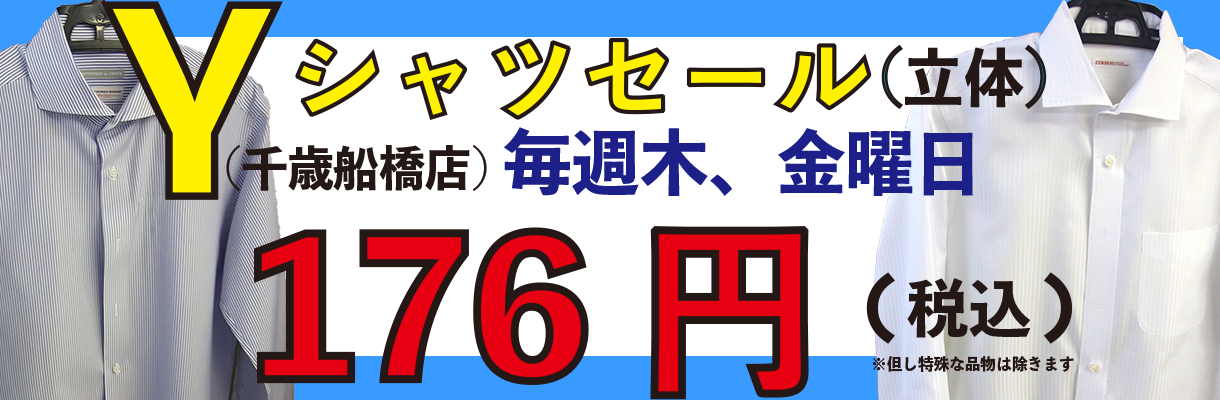
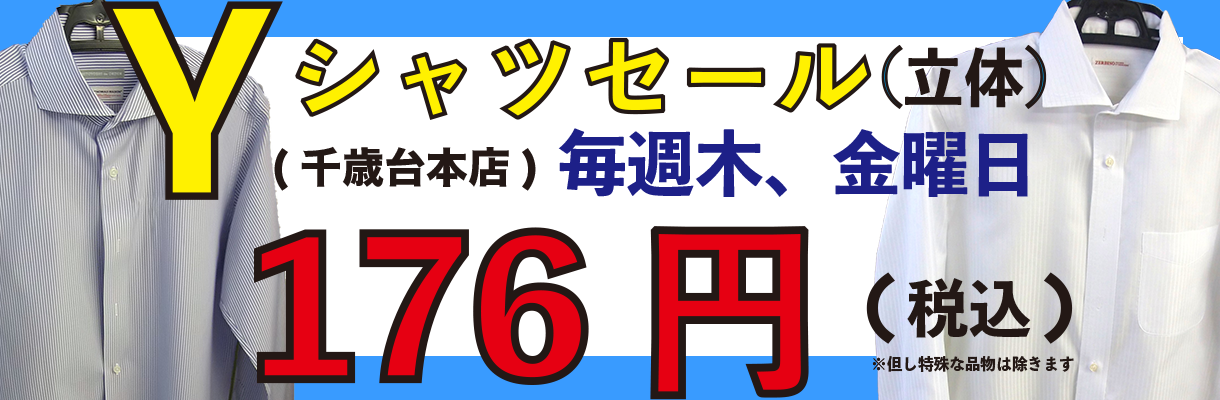
titose dev

Changed region(s): [[0.1869, 0.3, 0.841, 0.51]]

diff --git a/public/css/titosedai.css b/public/css/titosedai.css
@@ -1,4 +1,205 @@
 @charset"UTF-8";
-h1{
-	color:blue;
+*{ box-sizing: border-box;
+   margin: 0px;
+   padding: 0px;
+}
+body{
+	background-color:#ededed; /*#fcfcfc;/* #f7f5f5; bodyの背景、全てのページの背景色にする*/
+}
+h1.titles{
+	font-size:40px;
+	text-align:center;
+	background-color:#FFFF00;
+}
+/*メニューバー*/
+ul.menu{
+	background:#33FFFF; /*#00FFFF;←水色*/
+	padding: 0;
+	text-align:center;
+	box-shadow: 0px 8px 5px -5px rgba(0,0,0,0.5);/*影をつけた、千歳台の奴も影をつける*/
+}
+ul.menu li{
+	display:inline-block;
+	
+}
+
+ul.menu li a{
+	display: block;
+	padding: 20px 80px 10px;
+	color: #000080;
+	font-size: 14px;
+	text-decoration: none;
+}
+ul.menu li a:hover{
+	padding-bottom: 4px;
+	border-bottom: 6px solid #FFFF00;
+}
+ul.menu li a img{
+	display:block;
+	margin: 0 auto 1em;
+}
+/*スライダー*/
+/*仮追加*/
+.slider{
+    margin: 30px auto;/*配置位置*/
+    width:90%;
+    /*width:80%;/*ここで大きさを調整する*/
+}
+.slider img{
+  /* height: 500px;*/
+   height: auto;
+    width 500px;
+   /*width: 100%;*/
+}
+/*slick setting*/
+.slick-prev:before,
+.slick-next:before {
+    color: #000;
+}
+.tokuhos{
+	text-align:center;
+}
+h1.tokuho{
+	text-align:center;
+	display :inline-block;
+	padding: 1em;
+        margin: 2em auto;
+        color: #FFFF00;
+        background: #2a9eeb;
+        border-bottom: solid 5px #FFFF00;;
+        border-radius: 10px;
+       box-shadow: 0 3px 6px rgba(0, 0, 0, 0.25);
+}
+/*店舗情報*/
+#content2{
+	background:#fff;
+	width:90%;
+	padding-top:30px;
+	padding-bottom:40px;
+	margin: 40px auto 0;
+	text-align: center;
+}
+#content2 h1{
+}
+
+#content2 h2{
+display: inline-block;/*文字に合わせた横線の幅にする*/
+background: linear-gradient(transparent 70%, #FFFF00 0%);
+}
+#content2 h2.subtitle{
+	font-size:30px;
+	background:none;
+}
+#content2 h3{
+display: inline-block;/*文字に合わせた横線の幅にする*/
+background: linear-gradient(transparent 70%, #FFFF00 0%);
+}
+#content2 p{
+	margin:20px;
+	font-weight:bold;
+}
+.store{
+	display:flex;
+	margin-top:100px;
+	justify-content: space-around;
+}
+.storecontent img{
+	width:300px;
+	height:250px;
+}
+span.pic{
+	background: linear-gradient(transparent 70%, #FFFF66 0%);
+}
+span.pic1{
+        background: linear-gradient(transparent 70%, #FFFF66 0%);
+}
+/*サービス情報*/
+#content3{
+	background:#fff;
+        width:95%;
+        padding-top:30px;
+        padding-bottom:40px;
+        margin: 40px auto 0;
+        text-align: center;
+}
+h1.servicetitle{
+	 display: inline-block;
+	 background: linear-gradient(transparent 70%, #FFFF66 0%);
+}
+h2.title {
+	 margin:30px;
+	 display: inline-block;
+	 background: linear-gradient(transparent 70%, #FFFF66 0%);
+}
+
+.service{
+	display:flex;
+	justify-content:space-around;
+	margin-top:50px;
+}
+.servicecontent{
+	 
+}
+
+.service1{
+        display:flex;
+        justify-content:space-around;
+	margin-top:50px;
+}
+.servicecontent p{
+	font-weight:bold;
+}
+#content4{
+	 background:#CCFFFF;
+        width:100%;
+        padding-top:30px;
+        padding-bottom:40px;
+        margin: 40px auto 0;
+        text-align: center;
+}
+.map{
+	background:#CCFFFF;
+        width:90%;
+        padding-top:30px;
+        padding-bottom:40px;
+        margin: 40px auto 0;
+        text-align: center;
+}
+.mapall{ 
+	display:flex;
+        justify-content:space-around;
+        margin-top:50px;	
+}
+.mapcontent h2{
+	margin-top:22px;
+}
+.mapcontent ul{
+	list-style: none;
+}
+
+.mapcontent span.dayoff{
+	color:red;
+}
+.mapcontent ul li.first{
+	font-size:30px;
+}
+.mapcontent ul li{
+	margin-top:30px;
+	font-weight:bold;
+	font-size:22px;
+}
+.mapcontent ul li.last{
+	font-weight:normal;
+	font-size:15px;
+}
+footer{
+	width: 100%;
+        background:#000080;
+	text-align:center;
+}
+footer dd{
+	color:#fff;
+}
+footer dd.point{
+        color:#000080;
 }

diff --git a/public/js/scroll.js b/public/js/scroll.js
@@ -1,0 +1,11 @@
+$(function(){
+  $('a[href^="#"]').click(function(){
+    var speed = 500;
+    var href= $(this).attr("href");
+    var target = $(href == "#" || href == "" ? 'html' : href);
+    var position = target.offset().top;
+    $("html, body").animate({scrollTop:position}, speed, "swing");
+    return false;
+  });
+});
+

diff --git a/public/css/turumaki.css b/public/css/turumaki.css
@@ -188,4 +188,18 @@ h2.title {
 	font-weight:bold;
 	font-size:22px;
 }
-
+.mapcontent ul li.last{
+	font-weight:normal;
+	font-size:15px;
+}
+footer{
+	width: 100%;
+        background:#000080;
+	text-align:center;
+}
+footer dd{
+	color:#fff;
+}
+footer dd.point{
+        color:#000080;
+}

diff --git a/resources/views/pc/titosedai.blade.php b/resources/views/pc/titosedai.blade.php
@@ -2,13 +2,134 @@
 <html>
  <head>
     <meta charset="UTF-8">
+    <!--SEO対策用タグを忘れるな-->
     <meta name="viewport" content="width=device-width,initial-scale=1">
-    <meta name="description" content="ページの内容を説明す
-る">
-     <link rel="stylesheet" href="{{ asset('css/titosedai.css') }}">
+    <meta name="description" content="ページの内容を説明する">
+    <script src="https://ajax.googleapis.com/ajax/libs/jquery/3.6.0/jquery.min.js"></script>
+    <script src="{{ asset('js/slick.min.js') }}"></script>
+    <script src="{{ asset('js/slider.js') }}"></script><!--スライダー-->
+     <script src="{{ asset('js/scroll.js') }}"></script>
+    <link rel="stylesheet" href="{{ asset('css/titosedai.css') }}">
+    <link rel="stylesheet" href="{{ asset('css/slick.css') }}">
+    <link rel="stylesheet" href="{{ asset('css/slick-theme.css') }}">
     <script src="JavaScriptファイルのパス"></script>
  </head>
  <body>
-  <h1>表示されました</h1>
+  <div id="content">
+   <h1 class="titles">クリーニングWAVE　千歳台本店</h1>
+  <!--メニューバー-->
+    <nav>
+     <ul class="menu">
+       <li><a href="#content"><img src="{{ asset('img/menupic2.png') }}"width="60px" height="60px">トップ</a></li>
+       <li><a href="#content2"><img src="{{ asset('img/menupic3.png') }}"width="60px" height="60px">当店について</a></li>
+       <li><a href="#content3"><img src="{{ asset('img/menupic.png') }}"width="60px" height="50px">4つのサービス</a></li>
+       <li><a href="#content4"><img src="{{ asset('img/menupic4.png') }}"width="60px" height="60px">店舗情報</a></li>
+       <li><a href="#"><img src="{{ asset('img/menupic5.png') }}"width="60px" height="50px">弦巻店について</a></li>
+     </ul>
+    </nav>
+  </div>
+  <!--スライドショー-->
+    <ul class="slider">
+      <img src="{{ asset('img/pcplate2.jpg') }}">
+      <img src="{{ asset('img/pcplate1.jpg') }}">
+      <img src="{{ asset('img/pcplate5.png') }}">
+      <img src="{{ asset('img/pcplate3.jpg') }}">
+    </ul>
+   @if ($value ?? '' == 2)
+    <div class="tokuhos">
+      <!--<h1 class="tokuho"> {{$value ?? ''}}</h1>-->
+      <img src="{{ asset('img/saletue.jpg') }}">
+    </div>
+    @elseif ($value ?? '' == 3)
+     <div class="tokuhos">
+      <!--<h1 class="tokuho"> {{$value ?? ''}}</h1>-->
+      <img src="{{ asset('img/salewed.jpg') }}">
+    </div>
+    @else
+    @endif
+ <!--WAVEについて-->
+  <div id="content2">
+    <h1>クリーニングWAVE　千歳台本店</h1>
+    <h2>衣服の汚れお任せください、染み抜きのプロがいるお店</h2>
+    <p>当店ではプロの染み抜き職人が在籍し<span class="pic">とことんキレイに</span>、<span class="pic1">あなたの衣服をもう一回輝かせる</span>という二つの理念をモットーに妥協をしない<br>キレイな仕上げを心がけ開業から30年、弦巻のこだわりのあるクリーニング店として地域に愛されて営業してきました。</p>  
+   <h2 class="subtitle">当店のサービスについて</h2>
+    <dl class="store">
+      <div class="storecontent">
+        <img src="{{ asset('img/titose.jpg') }}">
+        <h3>キレイな仕上げを目指します</h3>
+        <p>シミ、汚れご相談下さい!シミの種類によって処理方法が違います。シミの原因を教えてください</p>
+     </div> 
+      <div class="storecontent">
+        <img src="{{ asset('img/titose1.jpg') }}">
+        <h3>そのシミ、プロにお任せください</h3>
+        <p>シミを付けてしまったらいじらずそのままの状態でお持ちこみください。</p><p>自己流で取ろうとすることでかえってシミを広げてしまったりシミを取りずらくしてしまいます。</p>
+      </div>
+      <div class="storecontent">
+       <img src="{{ asset('img/titose2.jpg') }}">
+       <h3>修理、受付でご相談ください</h3>
+       <p>キズ、破れ等の修理、丈詰め・寸法直し等のお直し、かけはぎ等幅広くお客様のご要望にお応えします</p>
+      </div>
+    </dl>
+  </div>
+  <!--４つのサービス-->
+  <div id="content3">
+     <h1>４つのサービス</h1>
+     <h1 class="servicetitle">クリーニングWAVE4つのサービス</h1>
+   <dl class="service">
+    <div class="servicecontent">
+      <h2 class="title" >サービスその1</h2>
+      <img src="{{ asset('img/service.png') }}">
+      <p>当店は YシャツもWクリーニング無料、袖、袖口の皮脂汚れ水洗いだけでは落ちません。<br>油性と水溶性の汚れ、匂いをしっかりと落としてスッキリさっぱり仕上げます。</p>
+    </div>
+    <div class="servicecontent">
+      <h2 class="title" >サービスその2</h2>
+      <img src="{{ asset('img/service2.png') }}">
+      <p>Yシャツセール(立体)弦巻店は毎週火曜日、水曜日におこないます。<br>但し特殊な品物は除きます。</p>
+    </div>
+    </dl>
+
+   <dl class="service1">
+     <div class="servicecontent">
+      <h2 class="title" >サービスその3</h2>
+      <img src="{{ asset('img/service3.png') }}">
+      <p>キレイな仕上げを目指します!シミ・汚れ当店にご相談ください。<br>シミを付けてしまったらいじらずそのままの状態でお持ちください。<br>自己流で取ろうとすることでかえってシミを広げてしまったりシミを取りずらくしてしまいます。</p>
+    </div>
+    <div class="servicecontent">
+      <h2 class="title" >サービスその4</h2>
+      <img src="{{ asset('img/service4.png') }}">
+      <p>オーバー類、セーター、カーディガン、マフラー等のニット類、<br>コート、ダウン、ジャンパー類の襟、袖口のニット部分<br>毛玉のふちなどの毛玉を無料でお取りします。</p>
+</p>
+    </div>
+    </dl>
+  </div>
+ <!--店舗情報-->
+  <div id="content4">
+   <div class="map">
+     <h1>店舗情報</h1>
+     <dl class="mapall">
+     <div class="mapcontent">
+     <iframe src="https://www.google.com/maps/embed?pb=!1m18!1m12!1m3!1d3242.0711354790105!2d139.613178415258!3d35.65061898020153!2m3!1f0!2f0!3f0!3m2!1i1024!2i768!4f13.1!3m3!1m2!1s0x6018f3da32d47f5d%3A0x71124950d0ddd1ee!2z44CSMTU3LTAwNzEg5p2x5Lqs6YO95LiW55Sw6LC35Yy65Y2D5q2z5Y-w77yT5LiB55uu77yZ4oiS77yWIOOCteODs-OCsOODrOODvOOCueWNg-ats-WPsA!5e0!3m2!1sja!2sjp!4v1642254338270!5m2!1sja!2sjp" width="600" height="450" style="border:0;" allowfullscreen="" loading="lazy"></iframe>
+     </div>
+    <div class="mapcontent">
+      <ul>
+        <li class="first">クリーニングWAVE【千歳台本店】</li>
+	<li>【営業時間】<br>月曜〜金曜日AM9:00~PM7:00<br>日曜祝日AM10:00~PM6:00<br><span class="dayoff">定休日なし</span></li>
+        <li>☎03-3483-5572</li>
+	<li>〒157-0071 東京都世田谷区千歳台３丁目９−６<br>サングレース千歳台1階</li>
+	<li class="last">※当サイトに記載されている店舗写真等の無断転載、無断使用はご遠慮ください。<br>また当店の外観写真や店舗情報等を他サイト等に転載する行為などもかたくお断りしております。</li>
+      </ul>
+      <!--
+        <h2 class="tel">☎03-5477-1613</h2>
+        <h2>〒154-0016東京都世田谷区弦巻２丁目9-13駒電ビル１階</h2>-->
+     </div>
+    </div>
+   </dl>
+  </div>
+ </div>
+ <footer>
+   <dd class="point">.</dd>
+   <dd>Copyright © 2022 CLEANING WAVE All Rights Reserved.</dd>
+   <dd class="point">.</dd>
+ <footer>
  </body>
 </html>

diff --git a/routes/web.php b/routes/web.php
@@ -17,6 +17,6 @@ Route::get('/', function () {
     return view('welcome');
 });*/
 //Laravel8系からルーティングが変更、フルパスで記述しないと表示されない*/
-Route::get('/','App\Http\Controllers\storeController@turumaki');
-/*テストコードRoute::get('/','App\Http\Controllers\storeController@titosedai');*/
-Route::get('titosedai','App\Http\Controllers\storeController@titosedai');
+//Route::get('/','App\Http\Controllers\storeController@turumaki');
+/*テストコード*/Route::get('/','App\Http\Controllers\storeController@titosedai');
+//Route::get('titosedai','App\Http\Controllers\storeController@titosedai');
